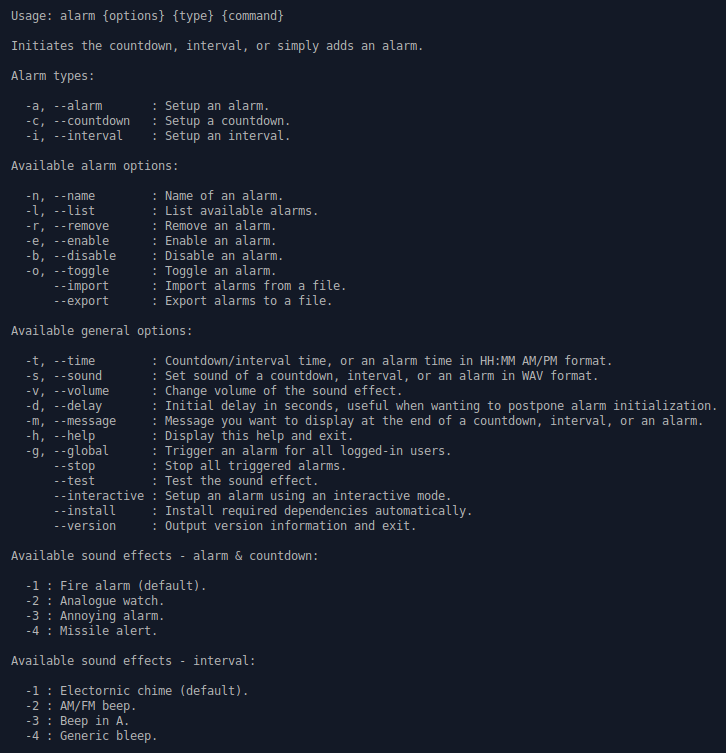
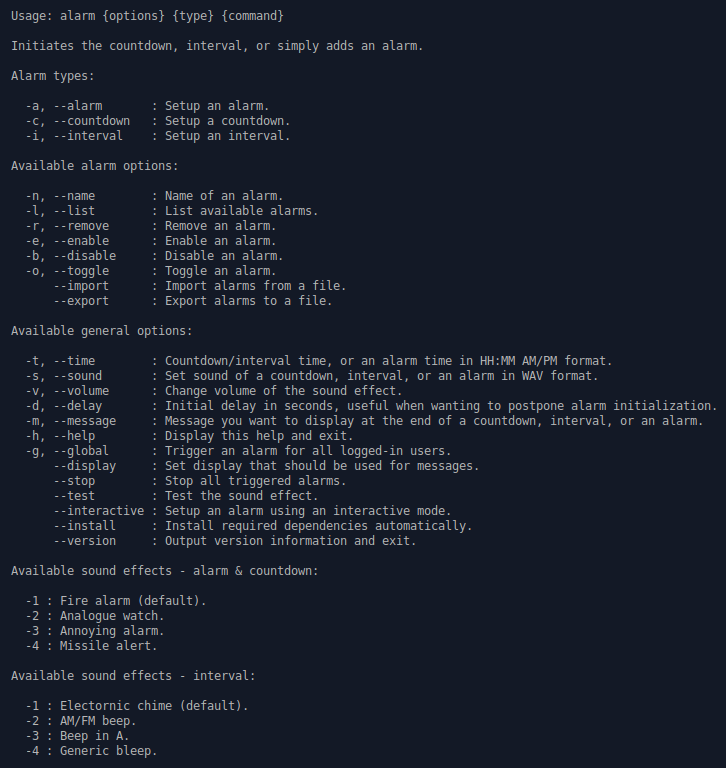
Added display parameter.

diff --git a/README.md b/README.md
@@ -155,6 +155,12 @@ You can display a custom message when the alarm is triggered using the "-m" flag
 bash ./alarm.sh -t 10s -m "My alarm message!" -c
 ```
 
+If needed, you may even set the display for alarm message.
+
+```bash
+bash ./alarm.sh --display ":1" -t 10s -m "My alarm message!" -c
+```
+
 ### Example 15 - Global Alarms
 
 If you want to set a countdown, interval, or an alarm that will trigger for all logged-in users, you should use the "--global" flag.
